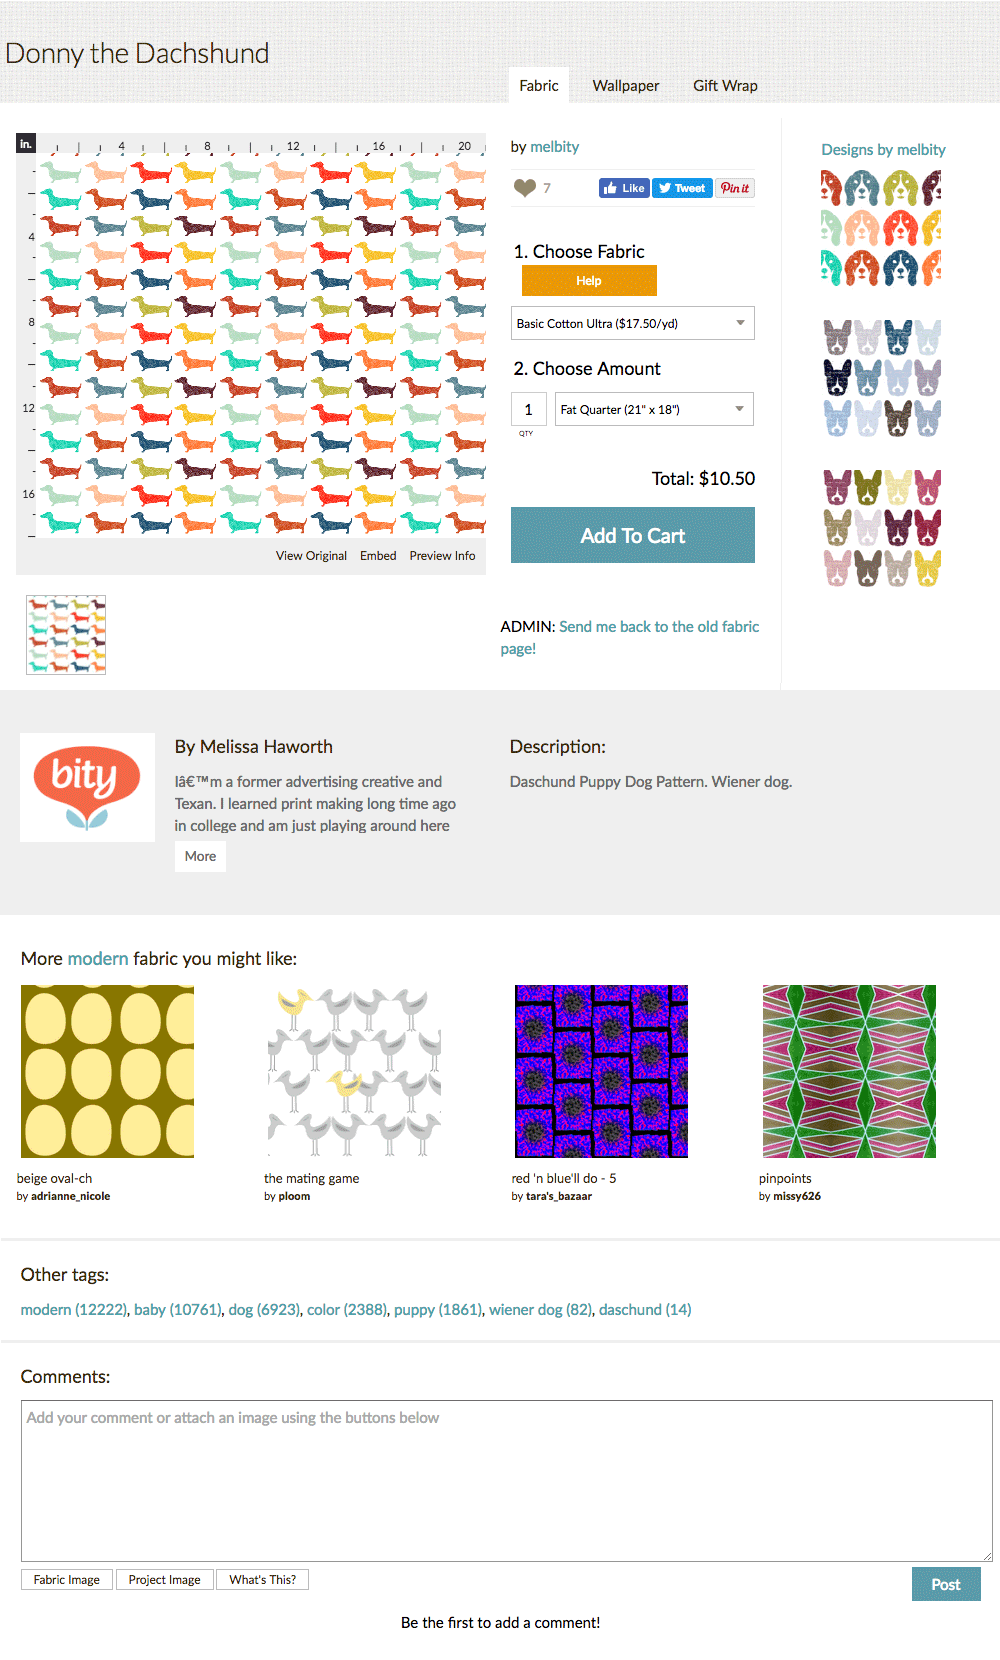
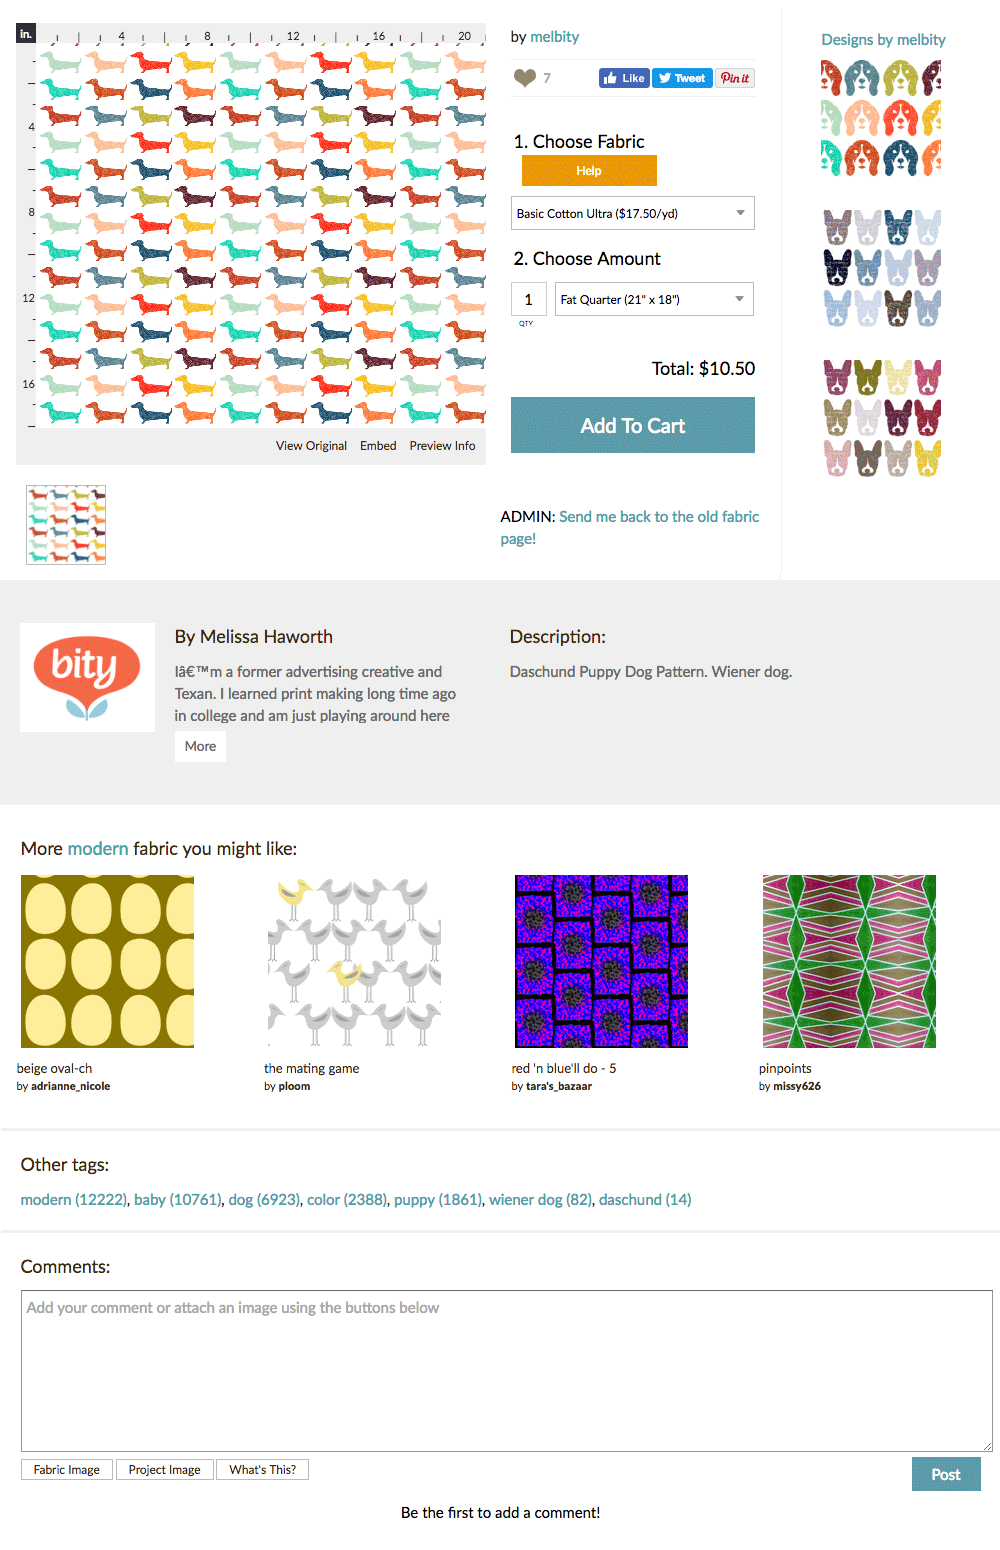
updated page header, special offers promo

diff --git a/project-nav/app/index.html b/project-nav/app/index.html
@@ -27,7 +27,7 @@
     <header class="site_header">
       <div class="h_bar">
         <div id="hBar" class="h_bar-container is-collapsed">
-          <a href="http://user1.spoonflower.com/prototype/?page=welcome" class="spoonflower_logo"><span class="visuallyhidden">Spoonflower</span></a>
+          <a href="?page=welcome" class="spoonflower_logo"><span class="visuallyhidden">Spoonflower</span></a>
           <!-- default action is blocked for demo purposes -->
           <a href="https://www.spoonflower.com/login" class="btn btn-xs btn-login">Log In</a>
           <a href="#" class="btn btn-xs btn-login logout">Log Out</a>
@@ -846,7 +846,7 @@
                               <a href="http://www.spoonflower.com/tags/dachshund" class="nav-link nl-lvl5">Dachshund</a>
                             </li>
                             <li>
-                              <a href="http://user1.spoonflower.com/prototype/?page=dachshund" class="nav-link nl-lvl5">Donny the Dachshund</a>
+                              <a href="?page=dachshund" class="nav-link nl-lvl5">Donny the Dachshund</a>
                             </li>
                             <li>
                               <a href="http://www.spoonflower.com/tags/greyhound" class="nav-link nl-lvl5">Greyhound</a>
@@ -2000,10 +2000,10 @@
               </ul>
             </li>
             <li class="has_subnav promos-link mobile_hide" tabindex="-1">
-              <button class="btn screen-reader-focus" tabindex="0">
+              <button class="btn promos-link-btn screen-reader-focus" tabindex="0">
                 <i class="icon icon_burst" aria-hidden="true"></i>
                 <span class="promo_count">3</span>
-                <span class="visuallyhidden">Promos</span>
+                <span class="promo_text">Special Offers</span>
                 <i id="iconIndicator" class="icon icon_close" aria-hidden="true"></i>
               </button>
               <ul class="subnav subnav-dropdown">
@@ -2173,30 +2173,40 @@
         </ul>
       </div>
     </div>
-    <main id="main" class="content_wrap" tabindex="-1">
-      <dl id="whatIsSpoonflower" class="spoonflower_definition">
-        <dt>
-          Custom printed <span class="screen-reader-focus" tabindex="0">fabric and more <i class="icon icon_chevron_down"></i></span>
-        </dt>
-        <dd class="display_none">
-          <p>The world’s largest marketplace for eco-friendly,
-            <span class="nowrap">print-on-demand:</span></p>
-          <ul class="disc">
-            <li>Fabric</li>
-            <li>Wallpaper</li>
-            <li>Gift Wrap</li>
-            <li>Home Decor (via Roostery)</li>
-            <li>Cut & Sew (via Sprout Patterns)</li>
-          </ul>
-          <a href="http://www.spoonflower.com/shop" class="btn btn-primary">Shop</a>
-          <a href="http://www.spoonflower.com/create" class="btn btn-primary">Design</a>
-          <a href="http://www.spoonflower.com/sell" class="btn btn-primary">Sell</a>
-        </dd>
-      </dl>
-      <img id="welcomeMock" src="images/welcome.jpg" height="2691" width="1000" />
-      <img id="fabricDachshund" src="images/fabric-dachshund.png" height="1660" width="1000" class="mock_page_image" />
-      <img id="mobileMock" src="images/mobile.png" height="593" width="320" class="mock_page_image" />
-      <button class="btn btn-back_to_top"><i class="icon icon_arrow_up" aria-hidden="true"></i> Back to Top</button>
+    <main id="main" class="main" tabindex="-1">
+      <div class="outer_container">
+        <dl id="whatIsSpoonflower" class="spoonflower_definition">
+          <dt>
+            Custom printed <span class="screen-reader-focus" tabindex="0">fabric and more <i class="icon icon_chevron_down"></i></span>
+          </dt>
+          <dd class="display_none">
+            <p>The world’s largest marketplace for eco-friendly,
+              <span class="nowrap">print-on-demand:</span></p>
+            <ul class="disc">
+              <li>Fabric</li>
+              <li>Wallpaper</li>
+              <li>Gift Wrap</li>
+              <li>Home Decor (via Roostery)</li>
+              <li>Cut & Sew (via Sprout Patterns)</li>
+            </ul>
+            <a href="http://www.spoonflower.com/shop" class="btn btn-primary">Shop</a>
+            <a href="http://www.spoonflower.com/create" class="btn btn-primary">Design</a>
+            <a href="http://www.spoonflower.com/sell" class="btn btn-primary">Sell</a>
+          </dd>
+        </dl>
+      </div>
+      <div class="page_header">
+        <div class="outer_container">
+          <img id="welcomeMock-header" src="images/welcome-header.jpg" height="325" width="1000" style="margin-bottom: 1rem;" />
+          <img id="fabricDachshund-header" src="images/fabric-dachshund-header.png" height="103" width="1000" class="mock_page_image" style="margin-bottom: -2px" />
+        </div>
+      </div>
+      <div class="outer_container">
+        <img id="welcomeMock" src="images/welcome.jpg" height="2691" width="1000" />
+        <img id="fabricDachshund" src="images/fabric-dachshund.png" height="1660" width="1000" class="mock_page_image" />
+        <img id="mobileMock" src="images/mobile.png" height="593" width="320" class="mock_page_image" />
+        <button class="btn btn-back_to_top"><i class="icon icon_arrow_up" aria-hidden="true"></i> Back to Top</button>
+      </div>
     </main>
     <footer class="site_footer">
       <div class="outer-container">

diff --git a/project-nav/app/scripts/main.js b/project-nav/app/scripts/main.js
@@ -48,10 +48,10 @@ var SpoonflowerNavigation = {
      * for debugging, prevent default link following
      */
 
-     $('.nav-link').on('click', function(e){
-       console.log('link blocked!');
-       e.preventDefault();
-     });
+    //  $('.nav-link').on('click', function(e){
+    //    console.log('link blocked!');
+    //    e.preventDefault();
+    //  });
 
   },
 
@@ -91,9 +91,9 @@ var SpoonflowerNavigation = {
       // using switch here in case we want to add more mock pages
       switch (sParameterName[1]) {
         case 'dachshund':
-          $('#welcomeMock').hide();
+          $('#welcomeMock, #welcomeMock-header').hide();
           $('.mock_page_image').hide();
-          $('#fabricDachshund').show();
+          $('#fabricDachshund, #fabricDachshund-header').show();
           break;
         case 'mobile':
           $('#welcomeMock').hide();
@@ -202,7 +202,7 @@ var SpoonflowerNavigation = {
     // if not set...
     if(userLoggedIn === null) {
       // console.log('userLoggedIn is not set');
-      // set hidePromos preference
+      // set loggedIn state to false
       localStorage.setItem('userLoggedIn', 0);
       userLoggedIn = 0;
     }
@@ -240,25 +240,39 @@ var SpoonflowerNavigation = {
    */
   hidePromos: function() {
 
-    var promoHidden = localStorage.getItem('hidePromos');
-    var $promosList = $('.promos-link ul');
-    var $iconIndicator = $('#iconIndicator');
+    var promoHidden = localStorage.getItem('hidePromos'),
+        $promosList = $('.promos-link ul'),
+        $iconIndicator = $('#iconIndicator'),
+        // $burst = $('.icon_burst'),
+        $promoText = $('.promo_text'),
+        $promoButton = $('.promos-link-btn');
+
+    function delayActiveBtn() {
+      $promoButton.addClass('active');
+    }
     // if not set...
     if(promoHidden === null) {
       // console.log('promoHidden is not set');
       // set hidePromos preference
       localStorage.setItem('hidePromos', 0);
       promoHidden = 0;
-      $promosList.slideToggle();
+      // $burst.addClass('visuallyhidden');
+      $promoText.removeClass('visuallyhidden');
+      $promosList.delay(3000).slideToggle(800);
+      window.setTimeout(delayActiveBtn, 3000);
     }
     else
-    if (promoHidden == 0){
+    if (promoHidden == 0) {
       // console.log('promoHidden is false!');
-      $promosList.slideToggle();
+      // $burst.addClass('visuallyhidden');
+      $promoText.removeClass('visuallyhidden');
+      $promosList.delay(1000).slideToggle(800);
+      window.setTimeout(delayActiveBtn, 1000);
     }
     else {
       // console.log('promoHidden is true!');
       $iconIndicator.toggleClass('icon_close icon_chevron_down');
+      $promoText.addClass('visuallyhidden');
     }
     // when user clicks btn toggle promo list visibility
     $('.promos-link .btn').click(function(){
@@ -266,19 +280,24 @@ var SpoonflowerNavigation = {
       // if false
       if (promoHidden == 0) {
         // hide the submenu
-        $promosList.slideToggle();
+        $promosList.hide();
         $iconIndicator.toggleClass('icon_close icon_chevron_down');
         // set to true
         localStorage.setItem('hidePromos', 1);
         promoHidden = 1;
+        $promoButton.removeClass('active');
+        // $burst.removeClass('visuallyhidden');
+        $promoText.addClass('visuallyhidden');
         // console.log('promoHidden2: ' + promoHidden);
       }
       else {
        // set to false and show the submenu
        localStorage.setItem('hidePromos', 0);
        promoHidden = 0;
-       $promosList.slideToggle();
+       $promosList.slideToggle(400);
+       delayActiveBtn();
        $iconIndicator.toggleClass('icon_close icon_chevron_down');
+       $promoText.removeClass('visuallyhidden');
       //  // console.log('promoHidden3: ' + promoHidden);
       }
 

diff --git a/project-nav/app/styles/_navigation.scss b/project-nav/app/styles/_navigation.scss
@@ -410,17 +410,24 @@
   .has_subnav.promos-link {
     float: right;
     .btn {
+      background-color: transparent;
       color: $smalt_blue;
-      margin-top: .5rem;
+      height: 51px;
+      // margin-top: .5rem;
+      min-width: 87px;
       position: relative;
-      width: 80px;
+      @include transition(background-color .5s linear);
       &:hover {
         color: $elephant;
+      }
+      &.active {
+        background-color: $polar;
+        @include transition(background-color .5s linear);
       }
     }
     // the submenu positioning
     .subnav-dropdown {
-      margin-left: -13rem;
+      margin-left: -6.8rem;
       &.visible {
         display: block;
       }
@@ -431,7 +438,7 @@
     .icon_close {
       position: absolute;
       right: .2rem;
-      top: .5rem;
+      top: 1rem;
       &::before {
         color: inherit;
         font-size: .5rem;
@@ -440,10 +447,17 @@
     .icon_chevron_down {
       position: absolute;
       right: .6rem;
-      top: .6rem;
+      top: 1.1rem;
       &::before {
         color: inherit;
       }
+    }
+    .promo_count {
+      display: inline-block;
+      width: 22px;
+    }
+    .promo_text {
+      margin-right: .7rem;
     }
   }
 

diff --git a/project-nav/app/styles/_global.scss b/project-nav/app/styles/_global.scss
@@ -1,9 +1,20 @@
 // global
 
-.content_wrap {
+// Styles from legacy site
+.outer_container {
   @include outer-container(1000px);
+}
+.page_header {
+  background: url('/images/back_topMOBILE_desat.png');
   box-sizing: border-box;
+  display: block;
+  margin: 0;
+  padding: 1rem 0 0;
+  position: relative;
   width: 100%;
+}
+
+.main {
   @include media($tablet) {
     margin-top: 2rem;
   }
@@ -46,13 +57,13 @@
   margin: 1rem;
   max-width: 270px;
   @include media($tablet) {
-    left: 23%;
+    left: rem(185);
     position: relative;
     top: -62px;
   }
   @include media($desktop) {
     // position: relative;
-    left: 21%;
+    left: rem(207);
     margin-bottom: -16px;
     top: -97px;
   }

diff --git a/project-nav/app/styles/_icons.scss b/project-nav/app/styles/_icons.scss
@@ -137,7 +137,7 @@
     @include font-size(6);
     margin: 0;
     position: relative;
-    top: -0.2rem;
+    top: -.2rem;
   }
 }
 .icon_close {
